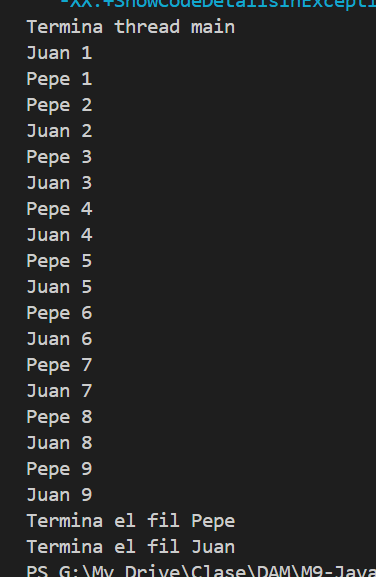
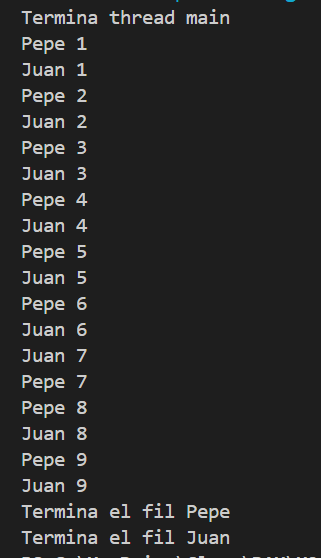
Me habia equivocado de imagen

Changed region(s): [[0.0623, 0.0, 1.0, 1.0]]

diff --git a/01_BasicThread/src/Fil.java b/01_BasicThread/src/Fil.java
@@ -9,7 +9,7 @@ public class Fil extends Thread {
         for (int i = 1; i <= 9; i++) {
                 System.out.println(getName()+ " " + i);
                 try {
-                    Thread.sleep(100);
+                    Thread.sleep(10);
                 } catch (InterruptedException e) {
                     e.printStackTrace();
                 }
